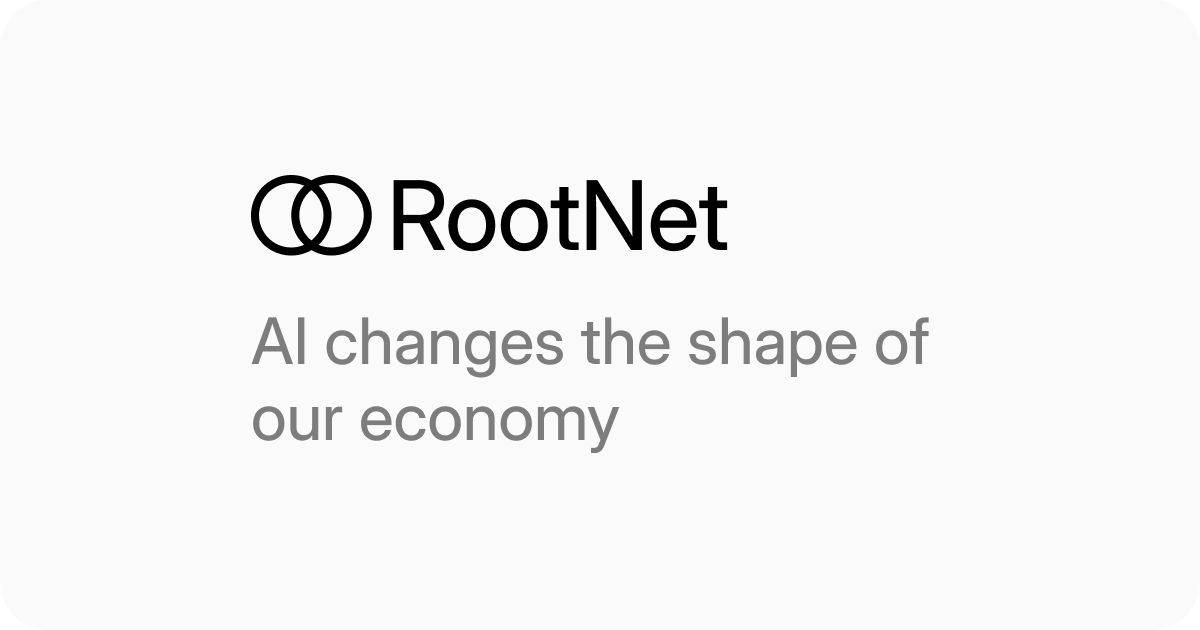
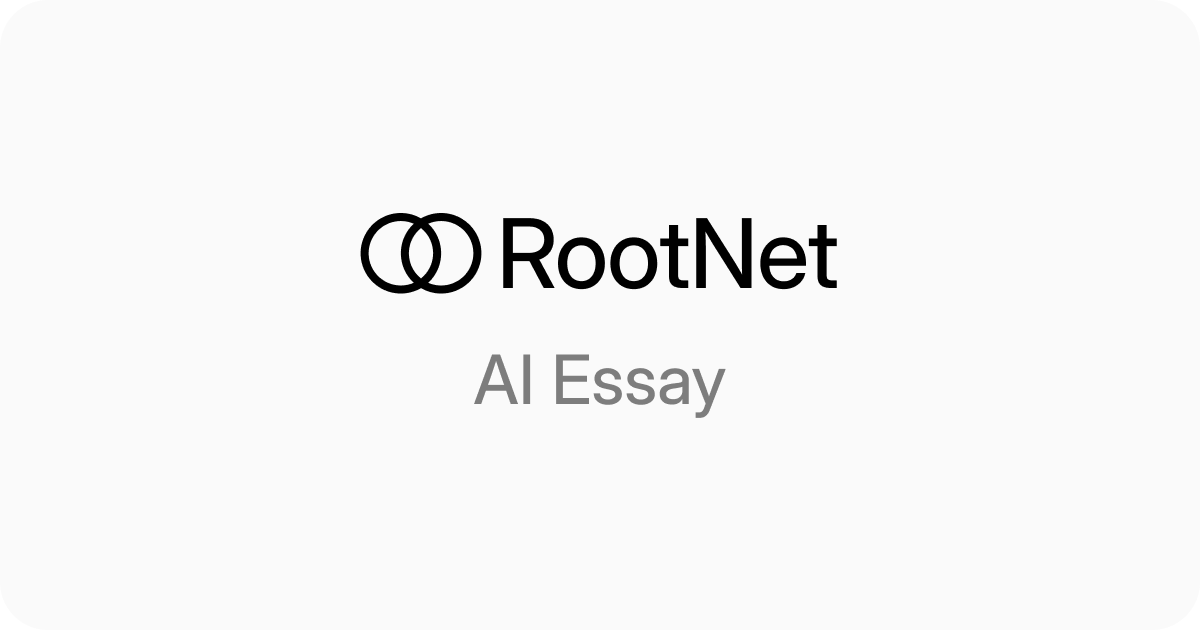
.

Changed region(s): [[0.185, 0.2714, 0.7092, 0.4825], [0.185, 0.5127, 0.7708, 0.7238]]

diff --git a/src/lib/links.ts b/src/lib/links.ts
@@ -13,7 +13,7 @@ export const MAIN_NAV_LINKS: LinkConfig[] = [
     isBlack: true,
   },
   {
-    label: "AI",
+    label: "AI Essay",
     href: "/ai",
     isBlack: true,
   },
@@ -27,7 +27,7 @@ export const HOME_PAGE_LINKS: LinkConfig[] = [
     isBlack: true,
   },
   {
-    label: "On AI",
+    label: "AI Essay",
     href: "/ai",
     isBlack: true,
   },

diff --git a/src/components/SideBar.module.css b/src/components/SideBar.module.css
@@ -2,7 +2,7 @@
   position: fixed;
   top: 0;
   left: 0;
-  width: 340px;
+  width: 300px;
   height: 100vh;
   background: #fbfbfb;
   z-index: 100;

diff --git a/src/components/EssayPage.module.css b/src/components/EssayPage.module.css
@@ -159,7 +159,7 @@
 }
 
 .content strong {
-  font-weight: 500;
+  font-weight: 610;
 }
 
 .content em {
